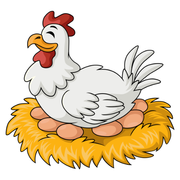
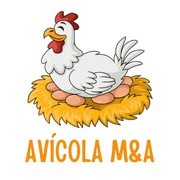
fix: imagotipo en splash/launcher y en pantalla sin conexion
Iconos regenerados con avicolamya-imagotipo.png (simbolo + nombre) en
vez del isotipo (solo simbolo), a pedido del Product Owner probando en
Android real: el splash que genera Chrome para la app instalada usa el
mismo set de iconos del manifest, y con el isotipo no se veia el
nombre de la granja. /offline ahora muestra el mismo logo y lo precachea
junto a la pagina para que no falte en una primera instalacion sin red.

diff --git a/scripts/generar-iconos-pwa.ts b/scripts/generar-iconos-pwa.ts
@@ -1,25 +1,26 @@
 import sharp from "sharp";
 
-const FUENTE = "public/avicolamya-isotipo.png";
+// Imagotipo (símbolo + "AVÍCOLA M&A"), no isotipo (solo símbolo) — a
+// pedido del Product Owner probando la app instalada en Android real: el
+// manifest usa el MISMO set de íconos para el ícono del launcher Y para
+// la pantalla de splash que Chrome genera sola al abrir la app instalada
+// (no hay forma estándar de tener una imagen distinta para cada cosa) —
+// con el isotipo, el splash mostraba solo la gallina, sin el nombre de la
+// granja. 500x500, igual que el isotipo.
+const FUENTE = "public/avicolamya-imagotipo.png";
 const ICONS_DIR = "public/icons";
 
-// FUENTE es un PNG de 500x500 SIN canal alfa (fondo blanco horneado,
-// hasAlpha: false, confirmado con sharp().metadata() antes de escribir
-// este script — mismo asset del que ya se quejaba el comentario de
-// components/layout/sidebar.tsx, "fondo horneado"). Un recorte real
-// (trim()) del margen blanco existente da un bounding box de ~470x441
-// sobre el lienzo de 500x500 — el símbolo ocupa ~94% del ancho, muy por
-// encima del 80% que exige la safe zone maskable (el círculo central que
-// Android puede usar como máscara). Sin margen propio, íconos "any" y
-// maskable necesitan tratamiento distinto:
-//   - "any": el isotipo se reescala tal cual — mismo criterio que ya usa
-//     el favicon/Sidebar del proyecto, sin composición.
-//   - "maskable": el símbolo se recorta a su bounding box real y se
-//     reescala DENTRO de un cuadro del 80% del lienzo final antes de
-//     centrarlo sobre un fondo blanco — blanco, no --primary (naranja),
-//     porque el propio isotipo ya trae ese blanco horneado hasta su
-//     borde; un fondo de otro color dejaría un cuadrado blanco visible
-//     en el medio en vez de fundirse sin costura.
+// FUENTE es un PNG SIN canal alfa (fondo blanco horneado, hasAlpha:
+// false, confirmado con sharp().metadata() antes de escribir este
+// script). Íconos "any" y maskable necesitan tratamiento distinto:
+//   - "any": el imagotipo se reescala tal cual — mismo criterio que ya
+//     usa el favicon/Sidebar del proyecto, sin composición.
+//   - "maskable": el símbolo (gallina + texto) se recorta a su bounding
+//     box real (trim()) y se reescala DENTRO de un cuadro del 80% del
+//     lienzo final antes de centrarlo sobre un fondo blanco — blanco, no
+//     --primary (naranja), porque el propio imagotipo ya trae ese blanco
+//     horneado hasta su borde; un fondo de otro color dejaría un
+//     cuadrado blanco visible en el medio en vez de fundirse sin costura.
 const SAFE_ZONE_RATIO = 0.8;
 const BLANCO = "#ffffff"; // mismo --background (light) confirmado en S13-1
 
@@ -45,7 +46,7 @@ async function generarMaskable(size: number) {
 async function generarAppleTouchIcon() {
   // iOS no lee el manifest para el ícono de home screen — necesita este
   // archivo puntual (180x180, sin transparencia, iOS aplica su propio
-  // redondeo/sombra). El isotipo ya no tiene alfa, no hace falta
+  // redondeo/sombra). El imagotipo ya no tiene alfa, no hace falta
   // aplanarlo aparte.
   await sharp(FUENTE).resize(180, 180).png().toFile("public/apple-touch-icon.png");
 }

diff --git a/src/app/offline/page.tsx b/src/app/offline/page.tsx
@@ -1,4 +1,3 @@
-import { WifiOff } from "lucide-react";
 import Link from "next/link";
 
 import { buttonVariants } from "@/components/ui/button";
@@ -23,7 +22,13 @@ export default function OfflinePage() {
     <div className="flex flex-col gap-6 p-4 md:p-8">
       <PageHeader title="Sin conexión" />
       <div className="flex flex-col items-center gap-4 rounded-xl border bg-card p-8 text-center">
-        <WifiOff className="size-12 text-muted-foreground" aria-hidden />
+        {/* <img> plano, no next/image: esta página la sirve el propio
+        Service Worker desde Cache Storage (fallbacks.entries en sw.ts) sin
+        tocar el servidor — depender de /_next/image (que necesita el
+        servidor para optimizar cada variante) rompería justo el caso que
+        esta pantalla existe para cubrir. El archivo crudo en /public sí cae
+        bajo el runtime caching de imágenes estáticas de defaultCache. */}
+        <img src="/avicolamya-imagotipo.png" alt="Avícola M&A" className="h-20 w-auto" />
         <p className="max-w-md text-muted-foreground">
           Esta pantalla no está disponible sin señal todavía. Mortalidad, Bitácora y Recolección sí
           funcionan sin conexión — probá con una de ellas mientras recuperás señal.

diff --git a/src/app/serwist/[path]/route.ts b/src/app/serwist/[path]/route.ts
@@ -14,5 +14,12 @@ export const { dynamic, dynamicParams, revalidate, generateStaticParams, GET } =
   // SHA del commit (disponible en Vercel) como firma de la build entera;
   // en local, sin esa env var, cae a un valor fijo (sin revisión real
   // entre corridas de `npm run build` locales, aceptable para desarrollo).
-  additionalPrecacheEntries: [{ url: "/offline", revision: process.env.VERCEL_GIT_COMMIT_SHA ?? "dev" }],
+  // El imagotipo va con la misma revisión: /offline lo referencia en un
+  // <img> plano (no next/image), y sin precachearlo junto con la página el
+  // logo podría faltar en una instalación que nunca visitó /login ni el
+  // Sidebar expandido antes de perder señal.
+  additionalPrecacheEntries: [
+    { url: "/offline", revision: process.env.VERCEL_GIT_COMMIT_SHA ?? "dev" },
+    { url: "/avicolamya-imagotipo.png", revision: process.env.VERCEL_GIT_COMMIT_SHA ?? "dev" },
+  ],
 });

diff --git a/specs/sprint-13-pwa-instalacion/tasks.md b/specs/sprint-13-pwa-instalacion/tasks.md
@@ -804,6 +804,55 @@ tarea, tal como quedaron documentadas las de
   — quedan fuera del alcance de PWA, no dependen de que haya señal en
   este sprint).
 
+  4. **Splash screen mostraba solo el isotipo, sin el nombre de la
+     granja:** al abrir la app instalada, Chrome genera la pantalla de
+     carga a partir del MISMO set de íconos del manifest que usa para el
+     ícono del launcher — no hay forma estándar de tener una imagen
+     distinta para cada cosa. A pedido del Product Owner probando en
+     Android real (adjuntó captura de la pantalla de carga mostrando solo
+     la gallina), `scripts/generar-iconos-pwa.ts` pasó de usar
+     `avicolamya-isotipo.png` a `avicolamya-imagotipo.png` (símbolo +
+     "AVÍCOLA M&A") como fuente, manteniendo intacta la lógica de
+     recorte/zona segura/fondo blanco para maskable. Regenerados los 5
+     archivos (`icon-192`, `icon-512`, `icon-192-maskable`,
+     `icon-512-maskable`, `apple-touch-icon`) y revisados visualmente uno
+     por uno: texto legible incluso a 192px, recorte maskable sin
+     cortar el texto.
+  5. **`/offline` sin logo, a pedido del Product Owner** ("el mismo logo
+     para cuando dice sin conexión"): se reemplazó el ícono `<WifiOff>`
+     de lucide por el imagotipo. Usa un `<img>` plano, no `next/image`
+     — esta página la sirve el propio Service Worker desde Cache Storage
+     (`fallbacks.entries` en `sw.ts`) sin tocar el servidor, y
+     `next/image` depende de `/_next/image` para optimizar cada variante,
+     lo que rompería justo el caso que esta pantalla existe para cubrir.
+     Por el mismo motivo, `/avicolamya-imagotipo.png` se agregó a
+     `additionalPrecacheEntries` en `src/app/serwist/[path]/route.ts`
+     junto con `/offline` (misma revisión, el SHA del commit): sin esto,
+     una instalación que nunca visitó `/login` ni el Sidebar expandido
+     antes de perder señal podría mostrar `/offline` sin el logo la
+     primera vez.
+  6. **Consistencia de color de barras entre online/offline:** el
+     Product Owner pidió que la barra superior e inferior de `/offline`
+     usen "el mismo color de fondo que cuando no muestra sin conexión".
+     Verificado que esto ya se cumple sin cambios de código: `theme_color`
+     (manifest) y el `viewport.themeColor` (layout, hallazgo 2 de este
+     mismo bloque) son globales a toda la app — no hay override por ruta
+     — así que `/offline` hereda el mismo naranja `#f4900f` que cualquier
+     otra pantalla, tanto en la pestaña normal de Chrome como en la app
+     instalada. La barra de navegación inferior de Android (los botones
+     "atrás") sigue sin poder pintarse de naranja en ningún caso: no
+     existe una API web estándar para controlarla, depende del
+     tema del sistema operativo/fabricante — limitación explicada al
+     Product Owner, aplica igual estando online u offline (mismo
+     comportamiento en ambos casos, no es una inconsistencia nueva).
+
+  Verificado de nuevo `npm run typecheck && npm run lint && npm run build
+  && npm test` tras estos 3 archivos (`scripts/generar-iconos-pwa.ts`,
+  `src/app/offline/page.tsx`, `src/app/serwist/[path]/route.ts`) —
+  **553/553 en verde**, y confirmado con `curl` contra `npm run start`
+  que `/serwist/sw.js` precachea `avicolamya-imagotipo.png` junto a
+  `/offline`.
+
 - [ ] S13-21 — Verificación en iPhone real (a cargo del Product Owner, R3
   `spec.md`): banner de tutorial de iOS aparece una vez con los 3 pasos
   correctos, no reaparece solo después de cerrado, el botón manual "Cómo
